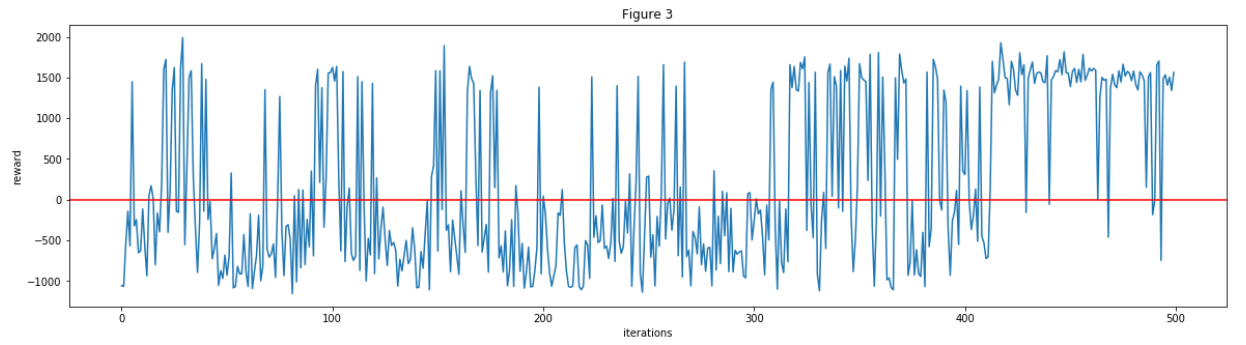
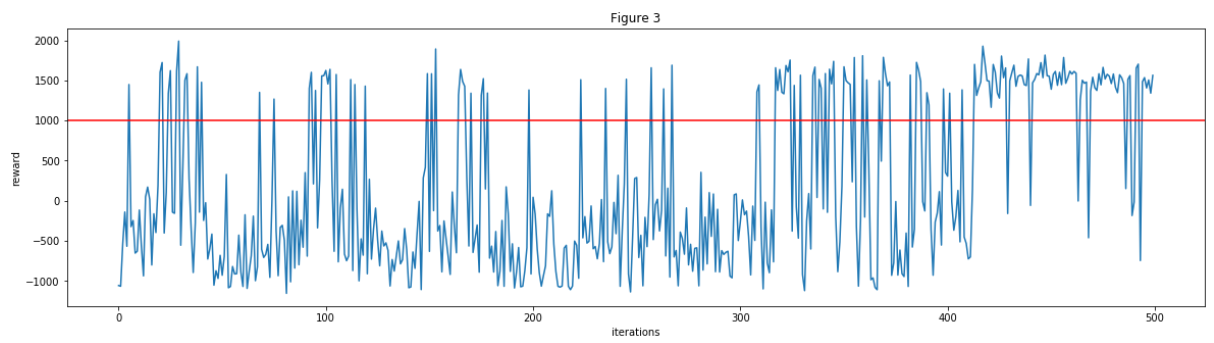
Final report ready

diff --git a/docs/final.md b/docs/final.md
@@ -11,23 +11,23 @@ title: Final Report
 
 ## Project Summary
 
-The goal of StevesFightClub is to create an agent that is able to fight and defeat all sorts of Minecraft mobs.  The agent fights up to 3 enemies in a 13x13 enclosed arena. The time limit was increased to 50 seconds to acommodate for increase in enemies. We initially wanted to make a wide arena with no bounds, but that would be too trivial since the agent would retreat indefinitely. We chose to make the arena as small as possible to confine the agent into making the best choices possible in a constrained environment.
+The goal of StevesFightClub is to create an agent that is able to fight and defeat all sorts of Minecraft mobs on normal difficulty. The agent aims to be the last living creature in the arena before time runs out. The agent fights up to 3 enemies in a 13x13 enclosed arena. The time limit was increased to 50 seconds to accommodate for increase in enemies. We initially wanted to make a wide arena with no bounds, but that would be too trivial since the agent would retreat indefinitely. We chose to make the arena as small as possible to confine the agent into making the best choices possible in a constrained environment.
 
+The ability to fight different enemies that respond to your actions is extremely difficult to do. There are many factors in this problem, such as health, types of enemies, number of enemies, and positions. By using machine learning algorithms such as Q-learning, the agent can learn a policy that can help it achieve its goal. 
 Our final version focuses primarily on improved movement. We added several new states and modifications to rewards for this to happen. These changes are discussed in the states and rewards approach section of this report.
 
 
 ## Approaches
 
-In our first approach, our agent only knew how to attack while looking at the nearest enemy and could not move. This would be the baseline for our project. 
+In our first approach, our agent only knew how to attack while looking at the nearest enemy and could not move.
 
-Later, we implemented tabular Q-learning for our agent because it would help our agent to improve and get better rewards. It could take actions such as attacking, moving forwards/backwards, and strafing left/right. 
-We tried to store states as a string representing coordinates of the agent and enemies, but the results were appalling (see results in Figure 1). 
+Later, we implemented tabular Q-learning for our agent because it would help our agent improve and get better rewards. It could take actions such as attacking, moving forwards/backwards, and strafing left/right. We tried to store states as a string representing coordinates of the agent and enemies. The string was 13x13 = 169 characters long, and it contained one 1 (the agent) and two 2's (the enemies). The other 166 characters were 0's. The results were appalling (see results in Figure 1), but this would act as the baseline for our project because it was a naive approach. 
 
 **Environment**
 
 <img src="img/final_spawn.png" width="250" height="250">
 
-Initially, we had two enemies in the arena. The agent learned it didn't need to move and repeatedly spam attacks. In our final version, we improved our state space to get better movement.  In order to test these changes, we decided to increase the number of enemies to 3. In our previous version, the agent would die repeatedly as it tried to stay at one position and spam attacks on 3 enemies. This was simply because the 3 zombies would outdamage the agent's health bar before the agent was able to kill all 3 enemies. The states space discussed below describes the movement changes that helps the agent survive.
+Initially, we had two enemies in the arena. The agent learned it didn't need to move and repeatedly spam attacks. In our final version, we improved our state space to get better movement. In order to test these changes, we decided to increase the number of enemies to 3. In our previous version, the agent would die repeatedly as it tried to stay at one position and spam attacks on 3 enemies. This was simply because the 3 zombies would outdamage the agent's health bar before the agent was able to kill all 3 enemies. The states space discussed below describes the movement changes that helps the agent survive.
 
 
 **Learning Algorithm**
@@ -54,10 +54,10 @@ We tried to implement shields for our agent to use, but Malmo's inventory items 
 In our initial states, we stored x and z coordinates, but we decided that it would be better to store positions, such as being near the wall or the corner of the arena. This turned out to not be enough, because the agent had no information about the direction it was facing in relation to the wall or corner.  So if it would learn a certain response to being near a wall, say to move left away from the wall, if it encountered a wall to the left in another instance and needs to move right to get away and fails, it would quickly unlearn that response.  
 
 
-We had two options for a solution. One was to introduce wall states as additions to the current position states of {wall, corner, nothing}.  The wall states would be something like: wall_left, wall_right, wall_front, wall_back.  Additionally, there would be corner states; only two would be needed: corner_left ( where there's a wall on the left and a wall behind) and corner_right.  We would only need two because our line of sight function takes care of turning and the agent is usually backed into a corner while the zombies are closer to the center, and a situation where the agent is in a corner and somehow has zombies between it and the walls is exceedingly rare and nearly impossible.  Overall this would add 6 total options to the position state, increasing it from 3 to 9; this would increase the total state space by a factor of 3.
+We had two options for a solution. One was to introduce wall states as additions to the current position states of {wall, corner, nothing}.  The wall states would be something like: wall_left, wall_right, wall_front, wall_back.  Additionally, there would be corner states; only two would be needed: corner_left (where there's a wall on the left and a wall behind) and corner_right.  We would only need two because our line of sight function takes care of turning and the agent is usually backed into a corner while the zombies are closer to the center, and a situation where the agent is in a corner and somehow has zombies between it and the walls is exceedingly rare and nearly impossible.  Overall this would add 6 total options to the position state, increasing it from 3 to 9; this would increase the total state space by a factor of 3.
 
 
-The other option was the introduce an entirely new state to the state representation, keeping the position state at 3 options.  The new state would be based on the angle the agent is facing.  Using the yaw of the agent returned by observations, we could make say 4 different options of the state based on the cardinal directions: north, south, east, and west.  This would increase the total number of states by a factor of 4, which is greater than the factor of 3 of the first option.
+The other option was to introduce an entirely new state to the state representation, keeping the position state at 3 options.  The new state would be based on the angle the agent is facing.  Using the yaw of the agent returned by observations, we could make say 4 different options of the state based on the cardinal directions: north, south, east, and west.  This would increase the total number of states by a factor of 4, which is greater than the factor of 3 of the first option.
 In the end we chose to go with the first option, the reasoning being that not only does it increase the state space less overall, it also doesn't in our opinion waste states for positions where no walls are around.
 
 
@@ -74,7 +74,7 @@ Our last state addition was health status. The idea was that we wanted the agent
 - move right
 - move back
 
-In the final version, we changed the way attack worked. Previously agent recieved an attack 1 command, it would attack continuously for some threshold. However, we changed the attack so it would attack once and only once per attack command issued. Attacking also has doubled the weight compared to the movement actions. We wanted the agent to take more random attacks, which would prioritize the agent into attacking than moving in earlier iterations. This was to help it learn attacking first since it was the most important action for the agent to reach its goal.
+In the final version, we changed the way attack worked. Previously agent received an attack 1 command, it would attack continuously for some threshold. However, we changed the attack so it would attack once and only once per attack command issued. Attacking also has doubled the weight compared to the movement actions. We wanted the agent to take more random attacks, which would prioritize the agent into attacking than moving in earlier iterations. This was to help it learn attacking first since it was the most important action for the agent to reach its goal.
 
 
 **Rewards**
@@ -85,7 +85,7 @@ In the final version, we changed the way attack worked. Previously agent recieve
 - -5 for running out of time
 - -1 for any action
 
-In the final version, several rewards were modified to fit the changes to our state space. We added an attack penalty to reduce the agent's spamming of attacks. This removes missed attacks the agent would do in cases such that an enemy was out of range or not in the line of sight. Since we added additional states for movement, the agent was moving more often which made it attack less. This coupled with the attack penalty made the agent rarely attack enemies, but instead outrunning them. This happened frequently in earlier iterations, so we increased the reward for damaging the enemy which incentivised the agent to attack whenever it was able to ensure a hit.
+In the final version, several rewards were modified to fit the changes to our state space. We added an attack penalty to reduce the agent's spamming of attacks. This removes missed attacks the agent would do in cases such that an enemy was out of range or not in the line of sight. Since we added additional states for movement, the agent was moving more often which made it attack less. This coupled with the attack penalty made the agent rarely attack enemies, but instead outrunning them. This happened frequently in earlier iterations, so we increased the reward for damaging the enemy which incentivized the agent to attack whenever it was able to ensure a hit.
 
 
 We decided to replace zombies with spiders to test our model with a different mob. We initially had an aiming problem with spiders. The agent's aim focuses on the middle of the entity. However for spiders, the hitbox is really low. When spiders approached the agent, the agent was not able to get line of sight of the spider since it would aim above the spider's hitbox. We made some adjustments to lower the aiming yaw so it would look down at the spider. It was not perfect, but it was able to get line of sight of the spider more often and thus was able to complete the mission.
@@ -96,6 +96,8 @@ We decided to replace zombies with spiders to test our model with a different mo
 <img src="img/final_fig1.png">
 
 Figure 1: States are stored as a string containing 0 (empty space), 1 (agent), or 2 (enemy)
+
+At best, the agent was able to land 3 hits on the enemies before dying. There were just too many states for the agent to learn and improve with only 200 iterations. 
 
 <img src="img/final_fig2.png">
 
@@ -111,8 +113,22 @@ In general, this is an approximation of how the agent performed:
 
 A stone sword deals 5 damage and zombies have 20 health points. It will take 4 attacks (or 800 reward points) to defeat one enemy. 
 
+In Figure 2, at around 175 iterations, the agent was able to navigate intelligently around the map and attack only when it was guaranteed a hit on an enemy. From observations of its later iterations, the agent would retreat quite often, but it would not be a full retreat. It would back away but also strafe left/right in a circular motion. This greatly reduces the chance of the agent backing up into a corner and getting surrounded by zombies. Additionally, if the agent were to be stuck in the corner, it was very aggressive in its attack, such that it would focus and kill an enemy and take the opportunity to get out of the corner. With this observation, we are confident that the improvements to the movement fixed this cornering challenge we faced in our previous status version.
 
-In Figure 2, at around 175 iterations, the agent was able to navigate intelligently around the map and attack only when it was guranteed a hit on an enemy. From observations of its later iterations, the agent would retreat quite often, but it would not be a full retreat. It would back away but also strafe left/right in a circular motion. This greatly reduces the chance of the agent backing up into a corner and getting surrounded by zombies. Additionally, if the agent were to be stuck in the corner, it was very aggressive in its attack, such that it would focus and kill an enemy and take the opportunity to get out of the corner. With this observation, we are confident that the improvements to the movement fixed this cornering challenge we faced in our previous status version.
+<img src="img/final_fig3.png">
+
+Figure 3: 500 iterations against 2 spiders
+
+For each 100 iterations, the number of rewards that were greater than 1000: 18, 19, 6, 39, 81
+
+<img src="img/final_fig4.png">
+
+Figure 4: 500 iterations against 2 zombies
+
+For each 100 iterations, the number of rewards that were greater than 1000: 21, 21, 30, 36, 43
+
+We tested our agent on spiders and zombies for 500 iterations each. In the first 200 iterations, the agent had roughly a 20% win rate. It started to show improvement over iterations 200-500 (except against spiders), and by the last 100 iterations, it had a 80% win rate against spiders and a 40% win rate against zombies. 
+Outnumbered and armed with a stone sword, the graphs show that our agent is able to improve itself over time in StevesFightClub. This means StevesFightClub is an initial success because the agent was able to defeat two different kinds of mobs in Minecraft. 
 
 
 ## References
